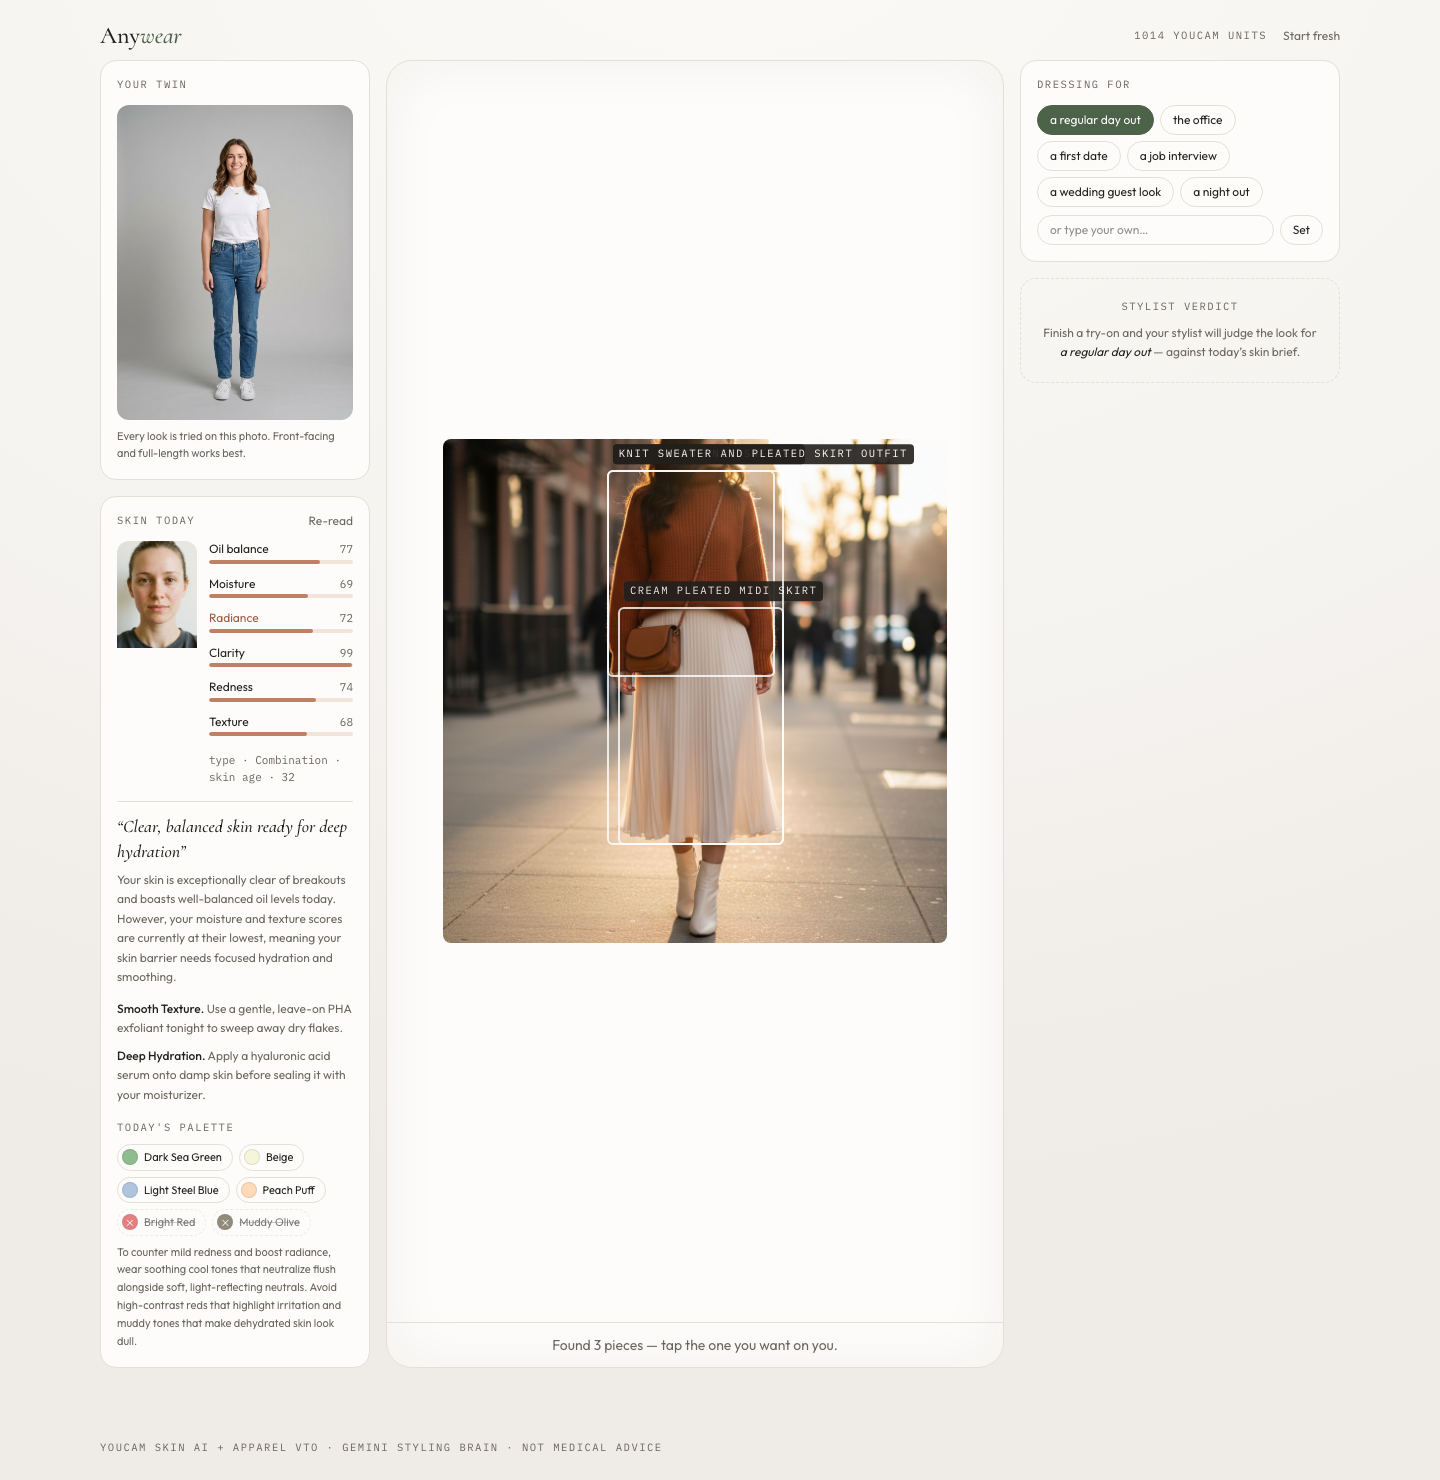
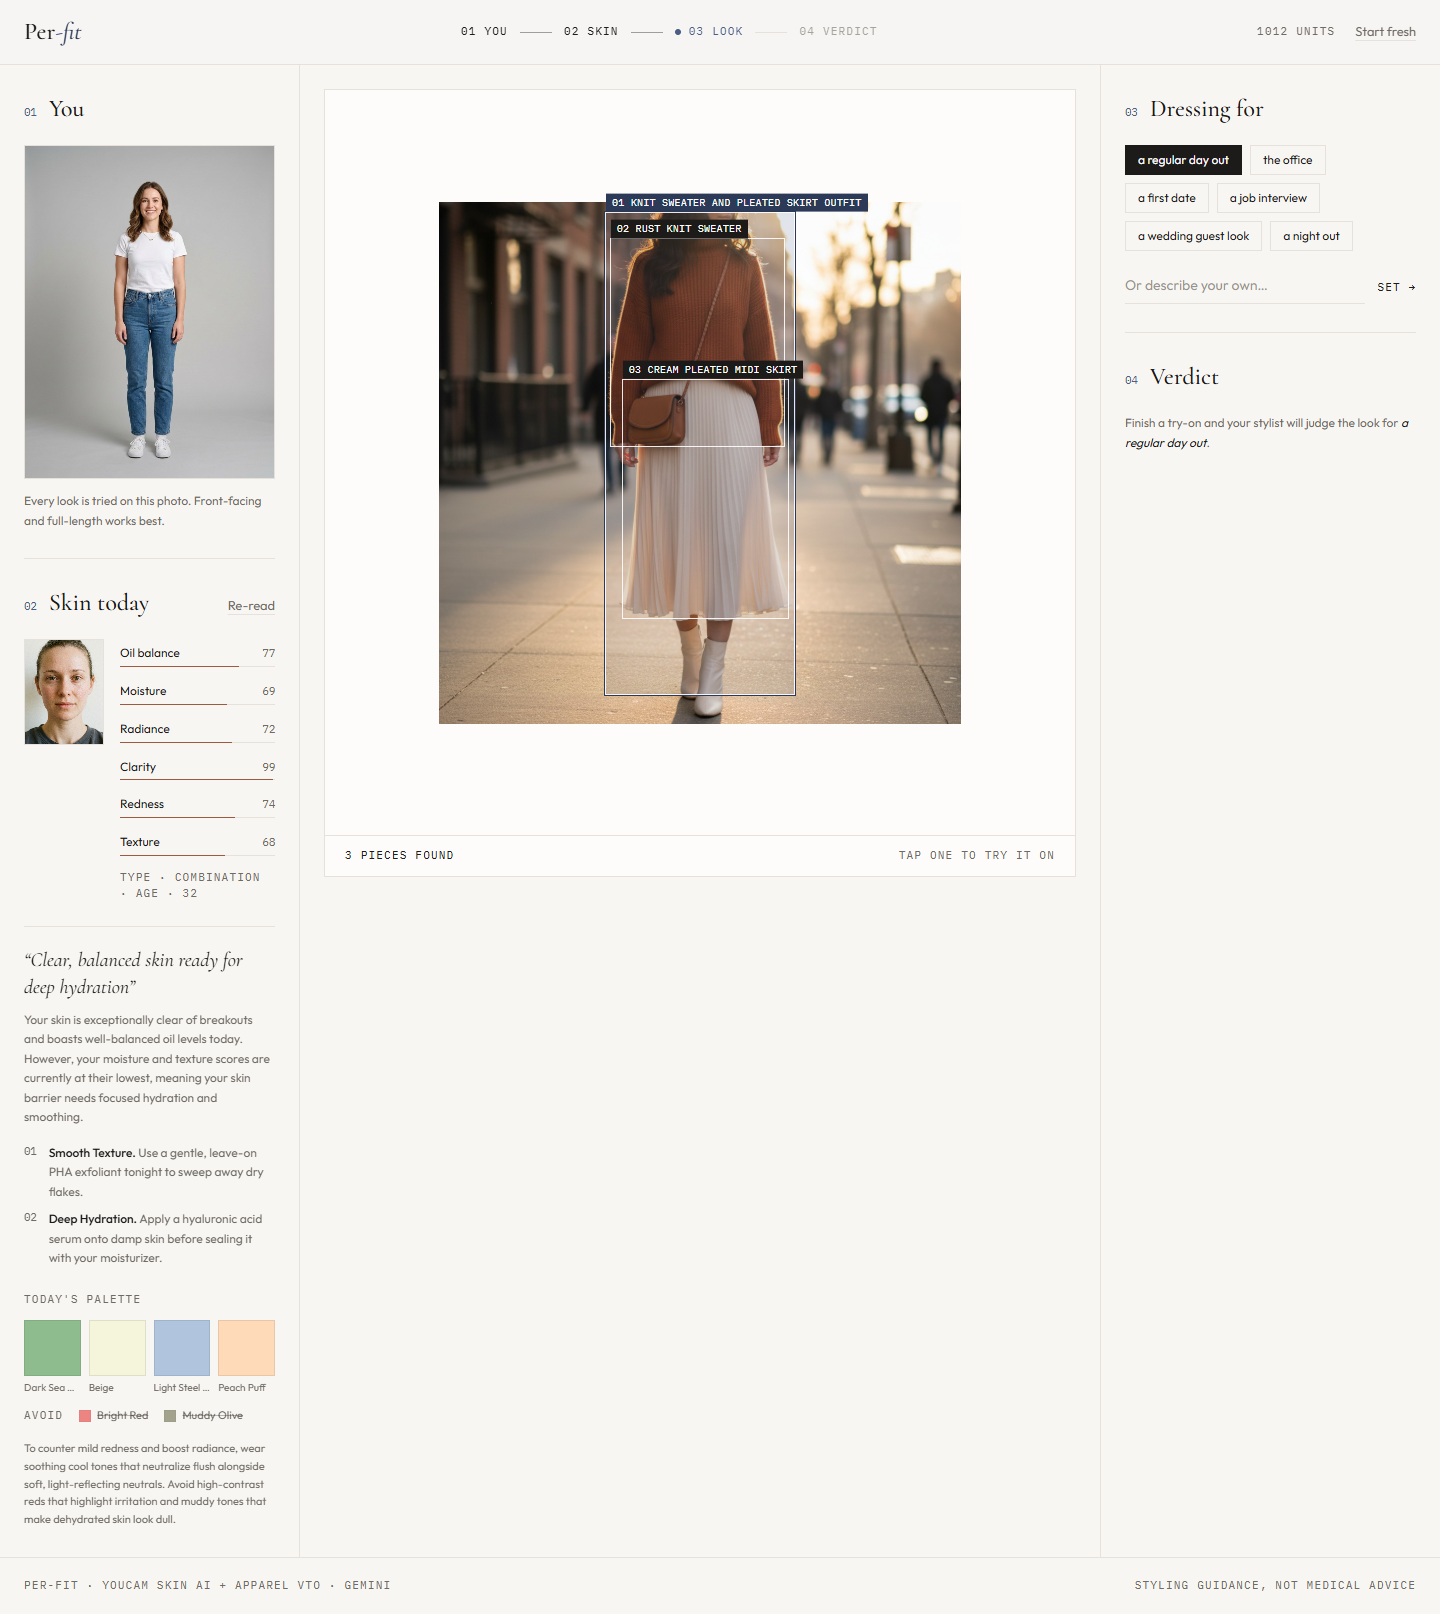
docs: refresh README screenshots for the Per-fit redesign
Replace web screenshots with the new UI, drop outdated mobile screenshots, demo video and submission notes, and remove the old deployment link.

diff --git a/README.md b/README.md
@@ -6,8 +6,6 @@
 
 Built for the [YouCam API Skin AI & Apparel VTO Hackathon](https://youcam-api.devpost.com) (combined *Skin AI + Apparel VTO* topic).
 
-**Live demo: https://anywear-1065701526224.asia-northeast1.run.app** (Cloud Run, Tokyo)
-
 ![Per-fit welcome screen](docs/screenshots/01-welcome.png)
 
 ## The problem
@@ -19,7 +17,7 @@ Fashion inspiration lives in screenshots — a shop page, a social post, a stree
 1. **Your twin.** One full-body photo becomes your fitting-room double. One bare-faced selfie becomes your skin baseline.
 2. **Skin today.** YouCam **AI Skin Analysis** scores seven concerns (redness, oil, moisture, radiance, clarity, texture, skin type + skin age) with per-concern detection masks you can view on your own face. Gemini turns the raw scores into a *daily skin brief*: what stands out, one concrete care action per concern, and — the key move — a **wearable color palette for today** ("visible redness → skip saturated reds near the face, favor cool sages").
 3. **Try anything you see.** Drop or paste *any* screenshot. Gemini Vision finds every wearable garment in it — through e-commerce UI chrome, prices, multiple products, worn outfits — classifies each as upper/lower/full-body, and crops a clean reference image. One tap sends it to YouCam **AI Clothes Virtual Try-On (v4)**, and the result appears in a before/after mirror.
-4. **The stylist verdict.** Gemini *looks at the actual generated try-on*, cross-references today's skin brief and your chosen occasion, and hands down an honest verdict on a garment hang-tag: Wear it / Maybe / Skip, with grounded reasons, a skin-harmony note, and pairing suggestions.
+4. **The stylist verdict.** Gemini *looks at the actual generated try-on*, cross-references today's skin brief and your chosen occasion, and hands down an honest verdict: Perfect fit / Maybe / Skip it, with grounded reasons, a skin-harmony note, and pairing suggestions.
 5. **Lookbook.** Every judged look is kept on-device for side-by-side deciding.
 
 The loop is agentic end-to-end: **measure (Skin AI) → reason (Gemini) → generate (Apparel VTO) → critique (Gemini judge) → decide (you)**.
@@ -66,7 +64,7 @@ cp .env.example .env   # fill in keys
 npm run dev            # server :8931 + web :5173
 ```
 
-Open http://localhost:5173, click **"Step in with the demo persona"**, and you are in the fitting room. Production build: `npm run build && npm start`.
+Open http://localhost:5173, click **"Try the demo"**, and you are in the fitting room. Production build: `npm run build && npm start`.
 
 ### Deploy (Cloud Run)
 
@@ -80,10 +78,6 @@ gcloud run deploy perfit --source . --region asia-northeast1 --allow-unauthentic
 ## Expo mobile app
 
 `mobile/` contains a React Native (Expo SDK 54) version of the same product — twin + selfie setup, skin scores and daily brief, screenshot try-on with tappable garment detection boxes, hold-to-compare mirror, and the stylist verdict — talking to the same server.
-
-| Home | Skin today + brief | Try-on + verdict |
-|---|---|---|
-| <img src="docs/screenshots/07-mobile-home.png" width="230"> | <img src="docs/screenshots/05-mobile-skin.png" width="230"> | <img src="docs/screenshots/06-mobile-verdict.png" width="230"> |
 
 Waiting states are crafted, not spinners: a face-scan animation while Skin Analysis runs, a viewfinder sweep during garment detection, and a stitched-hanger "tailoring" card while the try-on generates — each with rotating captions tied to the actual work.
 
@@ -100,7 +94,7 @@ The mobile app runs through **Expo Go** (no build step). Because it targets **Ex
 2. Put the phone on the **same Wi-Fi** as the computer.
 3. **iOS:** scan the QR with the Camera app and tap the banner. **Android:** scan from inside Expo Go. Or in Expo Go choose *Enter URL manually* and type the `exp://<lan-ip>:8082` address the CLI prints.
 
-The QR is a local dev pointer — it only works on the same network while `expo start` is running. For a zero-install experience on any device (and the link to hand judges), use the **live web app** above. On the iOS Simulator, `EXPO_PUBLIC_API_BASE_URL=http://localhost:8931` works as-is. `EXPO_PUBLIC_AUTODEMO=1` makes the app walk the whole demo unattended — handy for screenshots and CI.
+The QR is a local dev pointer — it only works on the same network while `expo start` is running. For a zero-install experience on any device, use the web app. On the iOS Simulator, `EXPO_PUBLIC_API_BASE_URL=http://localhost:8931` works as-is. `EXPO_PUBLIC_AUTODEMO=1` makes the app walk the whole demo unattended — handy for screenshots and CI.
 
 ## Demo assets
 
